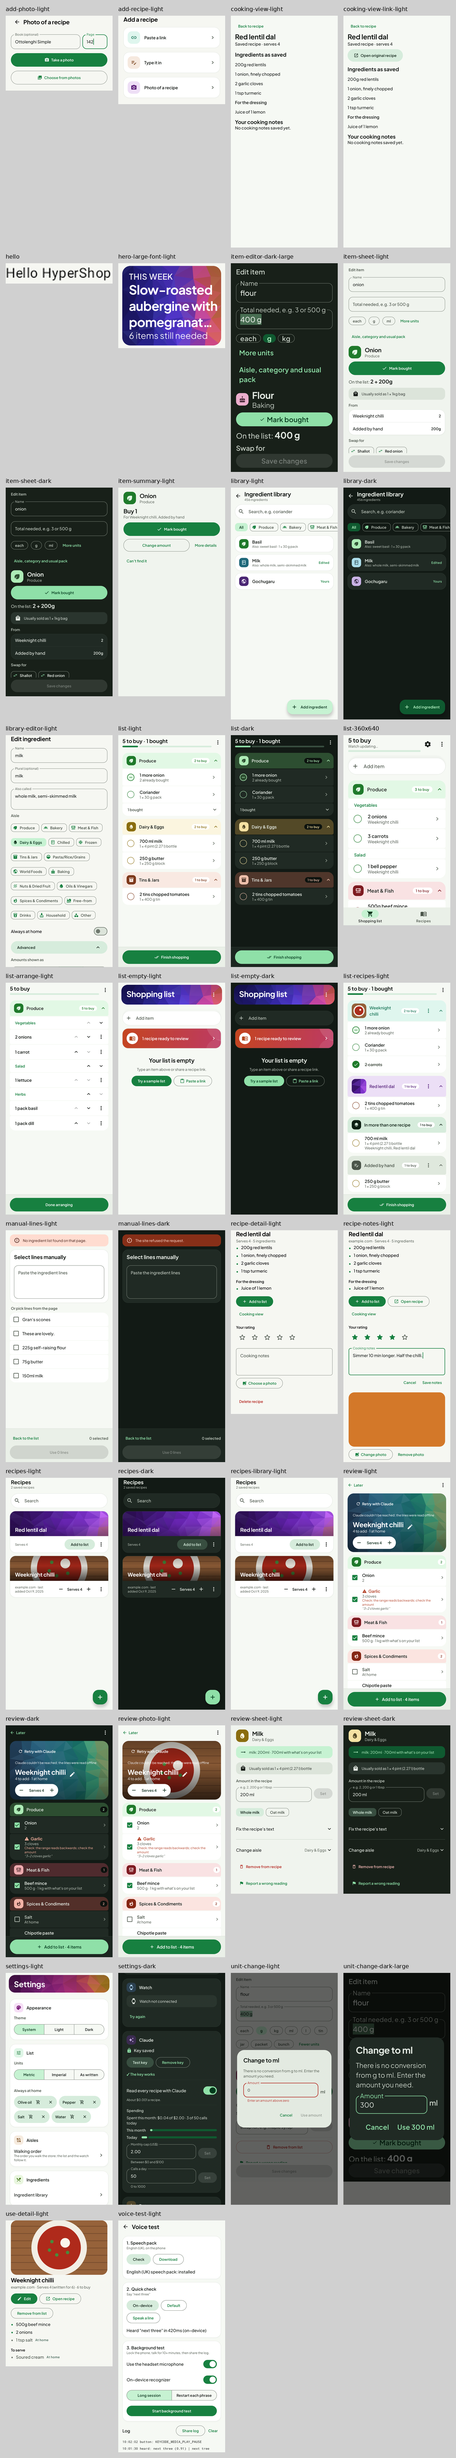
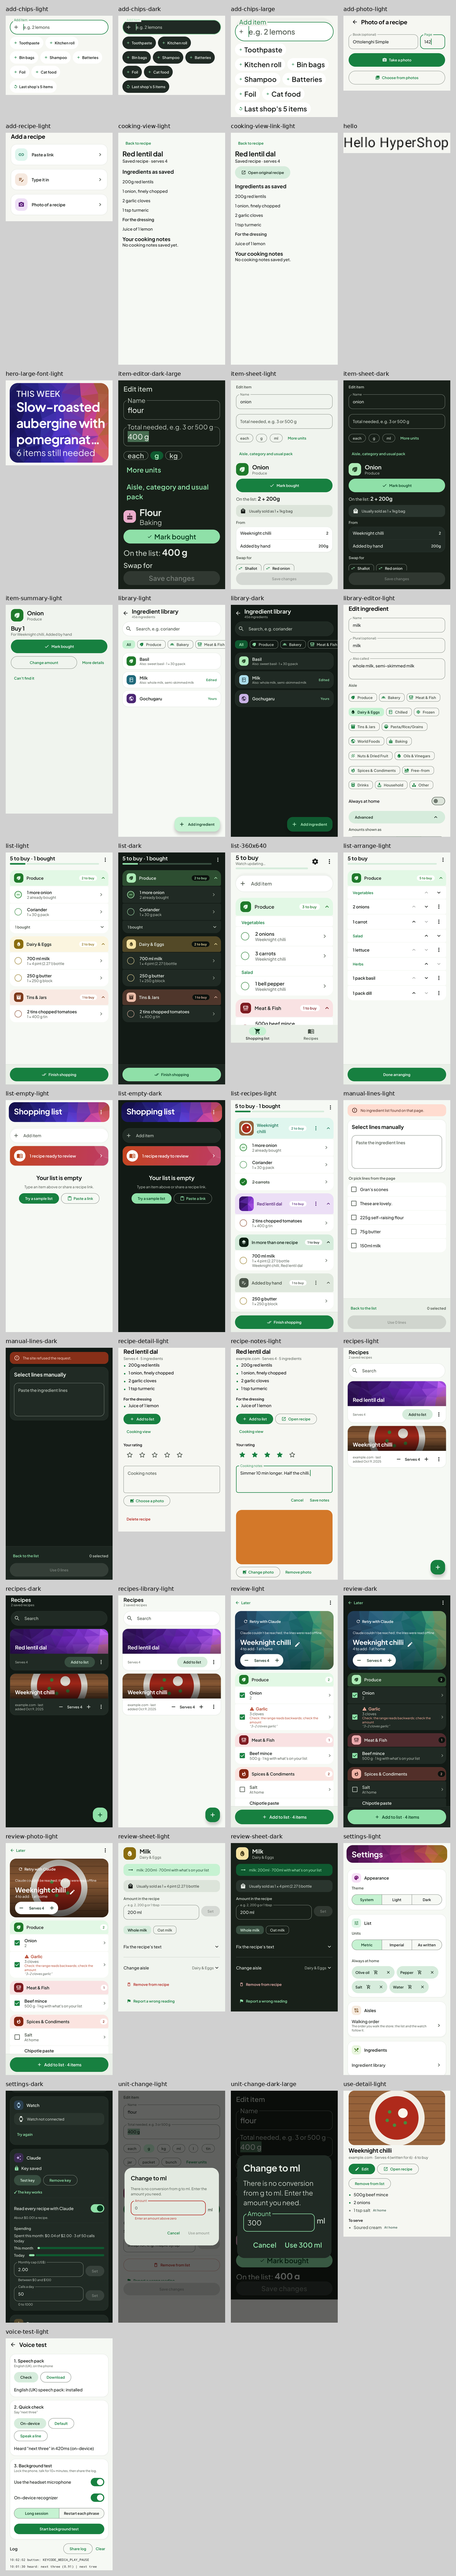
[AB.6] Verify and report
Adding by hand: 4 taps, 1 typed, no screen change (was 7, 1, 1). Core
and quick journeys unchanged. Screenshots and contact sheet re-recorded;
report in docs/reports/step-ab.md.

Claude-Session: https://claude.ai/code/session_01XHyUGxiCMSHv96zvVnb1yh

diff --git a/docs/reports/step-ab.md b/docs/reports/step-ab.md
@@ -1,0 +1,82 @@
+# Step AB — adding by hand
+
+## Summary
+
+The pinned **Add item** field is now the one place to add anything that isn't a recipe. This step adds no button, screen, tab, setting or help text.
+
+- **Usual items under the field (AB.1).** While the field is focused and empty, it shows up to eight chips: the items you add by hand most often that aren't on the list. If last shop's items aren't all back on the list, the last chip is "Last shop's N items".
+  - One tap adds an item at its usual amount; the field keeps focus and the next candidate moves up.
+  - Typing switches to the existing typed suggestions.
+  - A long press, or a TalkBack action, offers **Don't suggest**.
+  - With no shopping history there are no chips and no text about them.
+- **Buy again's separate surfaces are gone (AB.2).** That means the chip below the items, the ⋮ entry and the sheet, together with their view model and tests.
+  - The behaviour that remains (what is suggested, Don't suggest, last shop's items in one go, never doubling, never undoing a purchase) is now tested on the field.
+  - No data was dropped: trips and regular items are kept, and a pin you already set is still offered first.
+- **Every hand add says where it went (AB.3).** The message is "Added to Dairy & Eggs", or "Added 3 items" for a paste or last shop's items, with Undo. Undo takes back only what is still unbought.
+  - The new row is lit for a moment where it sits; the list does not scroll away from the field.
+  - For an item already on the list, the double-Enter guard stays (it doesn't add it twice). After **Add 1 more**, the message says "Milk: now 2 on your list".
+  - Each add gives one message, so TalkBack announces once.
+  - Messages clear the bottom bar, the field and its chips, and now also the keyboard. While the keyboard is up, the chips become one row that scrolls sideways, so a message fits below them.
+- **Non-food items go to Household (AB.4).** Batteries, toothpaste, shampoo, cat food, washing powder, dishwasher salt, sun cream and similar items now land in Household instead of Other.
+  - These rules come after every food rule, plus a few phrases that can't be food, so no food item moved. A test checks the golden ingredient names.
+  - Golden data is untouched and the golden coverage threshold still passes.
+- **Aisle moves on hand-added items are remembered (AB.5).** Moving an item you added by hand to another aisle is remembered without asking: "Moved to Household. HyperShop will remember." Undo moves it back and forgets the aisle.
+  - A recipe's item keeps the "Always put X in Y" checkbox.
+  - Tests show the remembered aisle survives finishing a shop and a backup restore.
+
+## Journeys, before and after
+
+`JourneyTest` drives the real app shell (Robolectric) and counts taps, entries typed, scrolls and screen changes. These are counts, not timings; no person took part.
+
+| Journey | AA (docs/reports/step-aa.md) | AB.0 | After AB |
+|---|---|---|---|
+| Adding by hand: bin bags typed, toothpaste and kitchen roll (regulars) added | — | 7 · 1 · 0 · 1 | **4 · 1 · 0 · 0** |
+| Core job: share a recipe link, accept, tick everything, finish | 6 · 0 · 0 · 2 | 6 · 0 · 0 · 2 | 6 · 0 · 0 · 2 |
+| Quick shopping: milk and bread, tick both, finish | 7 · 2 · 0 · 0 | 7 · 2 · 0 · 0 | 7 · 2 · 0 · 0 |
+
+(taps · typed · scrolls · screen changes)
+
+All targets are met:
+- Adding by hand: 4 taps and 1 typed entry (target: at most 5 and 1), with no screen change.
+  - Before: tap the field, type "bin bags", Enter, then ⋮ › Buy again › chip › chip › Done, which opened the sheet.
+  - Now: tap the field, type "bin bags", Enter, then two chips.
+- The core and quick journeys are unchanged.
+- In the emulator scenario, the "quick" weekly shop drops from 9 taps to 7: the field, then last shop's chip, instead of Buy again's chip, Add all and Done.
+
+## Where things typed into Add item land
+
+| Item | AB.0 | After AB |
+|---|---|---|
+| bin bags | Household (catalogue) | Household (catalogue) |
+| batteries | **Other** | Household |
+| toothpaste | **Other** | Household |
+| kitchen roll | Household (catalogue) | Household (catalogue) |
+| washing-up liquid | Household (catalogue) | Household (catalogue) |
+| cat food | **Other** | Household |
+| shampoo | **Other** | Household |
+| foil | Household (catalogue) | Household (catalogue) |
+
+`HandAisleTest` writes this table to `build/reports/hand-aisles.txt` and asserts the "After" column.
+
+## Claims in the brief that were wrong
+
+- **"Pressing Enter adds a hand-added item."** True for a new item. For an item already on the list, a guard (review B.17) deliberately doesn't add it again; it says so and offers "Add 1 more". I kept the guard. "Milk: now 2 on your list" is shown after Add 1 more, which is when the list has actually changed.
+- **Where the eight items land.** The brief implied all eight go to Other. Only four did; bin bags, kitchen roll, washing-up liquid and foil were already Household catalogue entries.
+- **"Without asking Always / Just this time."** The list never asked that; the question is on the review. The list's item editor had an "Always put X in Y" checkbox, ticked by default. For hand-added items that checkbox is now gone and the move is always remembered.
+- **"The same rule as AA.4" for message placement.** AA.4's rule measured only the bar's height. With the app drawn edge-to-edge, the Scaffold placed messages on the tab bar, which the keyboard covers, so messages shown while typing were hidden. The rule now measures where the bar's top is and also clears the keyboard.
+
+## Not done, and why
+
+- Without the sheet, a new **pin** ("Always offer") can't be set, and a single hidden item can't be unhidden. Existing pins still come first. Settings › Clear shopping history still clears every hidden item; its dialog no longer mentions Buy again.
+- The empty list's "Last shop's N items" button stays: on an empty list the field isn't focused, so its chips aren't showing.
+- Items already on a list keep the aisle they were given. AB.4 affects only new adds.
+- I kept AB.4's single-word Household rules away from words that can name food: bulb (fennel bulb), sponge (sponge cake), polish (Polish sausage), dog (hot dog), spray (cooking spray), paper (rice paper), liquid (liquid smoke) and bag (tea bags). "Light bulbs", "dog food" and similar are caught as whole phrases instead.
+
+## What could not be checked here
+
+- **Keyboard.** Robolectric raises no keyboard. These were not seen on a device: the one-row chips while the keyboard is up, the message sitting above the keyboard, Enter keeping the keyboard up after a chip tap, and the keyboard's own microphone (voice typing into the field). The code follows the keyboard's inset; the tests cover the layout with no keyboard and the one-row layout directly.
+- **Emulator and device.** The emulator scenarios were updated and compiled, but not run here.
+- **TalkBack.** The chips' "Don't suggest" action and the single message per add are tested through semantics only.
+- **Watch.** Not run. The watch protocol and its data are unchanged; hand adds reach the watch exactly as typed items did before.
+
+One commit per sub-step (AB.0–AB.6), each gated by `tools/verify.sh` (watch compile skipped; argument limits ran). Lines changed since 31ba91e: main sources +438 / −386, tests +589 / −283.

diff --git a/PROGRESS.md b/PROGRESS.md
@@ -505,4 +505,7 @@ setting or help text.
   as it was (or deletes it) in one transaction (the move bumps `Item.rev`). A recipe's item keeps the checkbox.
   Tests (`AddByHandTest`, `ItemSheetTest`): the message, Undo forgetting, the name typed again after finish shopping
   lands in the remembered aisle, the override survives a backup restored on another container.
-- [ ] AB.6 Verify and report
+- [x] AB.6 Verify and report. Screenshots re-recorded (new: `add-chips-light`, `add-chips-dark`, `add-chips-large`
+  at 200 %), `tools/contact-sheet` run (41). Journeys: adding by hand 4 · 1 · 0 · 0 (AB.0: 7 · 1 · 0 · 1; target ≤ 5
+  taps, 1 typed, no screen change: met), core 6 · 0 · 0 · 2 and quick 7 · 2 · 0 · 0 (as in step-aa.md). Report:
+  `docs/reports/step-ab.md`.
